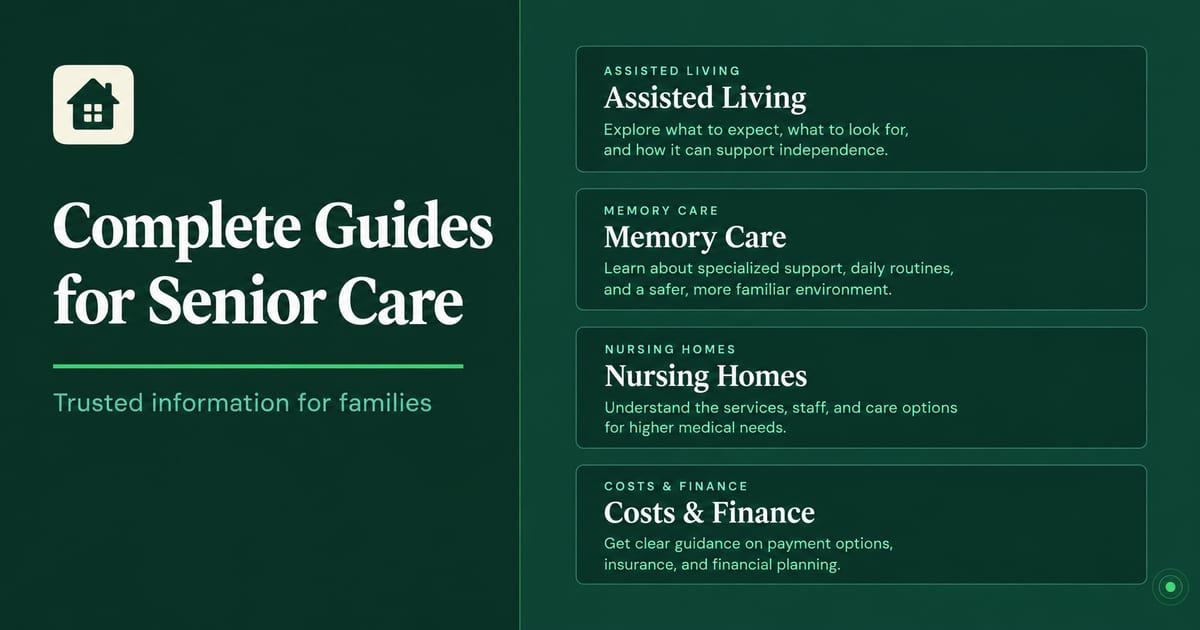
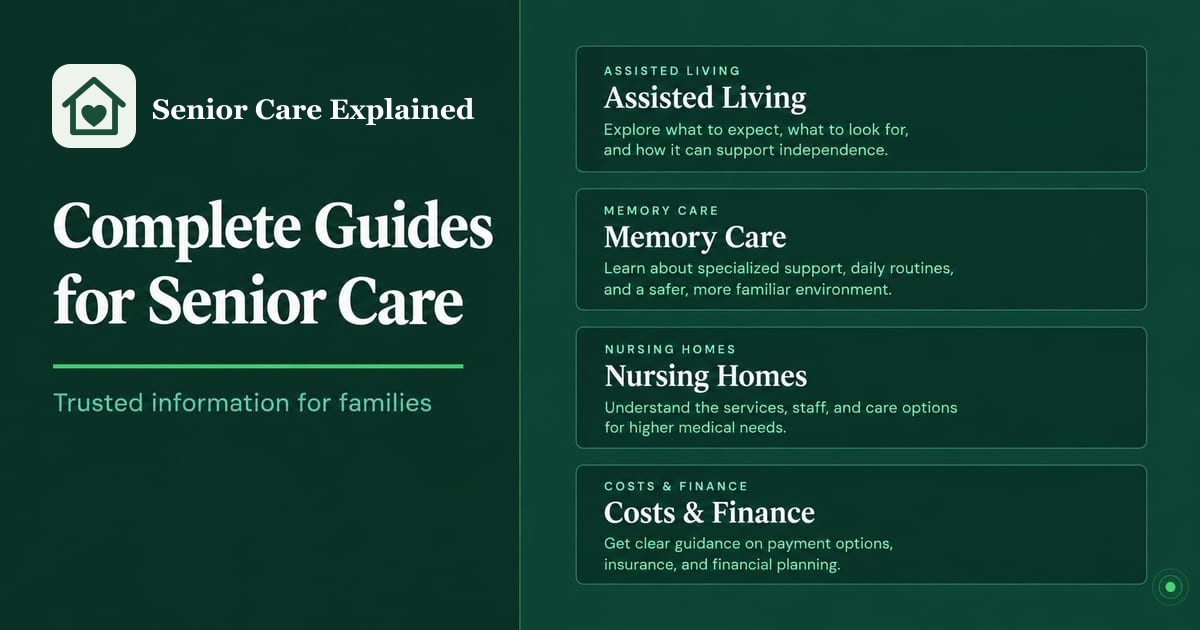
feat: rebrand to Senior Care Explained and move to seniorcareexplained.com
- Rename the site to "Senior Care Explained" across layouts, pages, SEO and docs
- New house-with-heart logo in header, favicons (svg/png/ico), logo.webp and og-default.jpg
- Point site URL, canonical, sitemap and robots.txt to https://seniorcareexplained.com
- Keep the "Senior Living Options" comparison article unchanged (topic, not brand)
- Header menu button now inherits the text color

Changed region(s): [[0.0308, 0.1206, 0.4008, 0.2413]]

diff --git a/src/utils/seo.ts b/src/utils/seo.ts
@@ -17,8 +17,8 @@ export interface SEOMeta {
   robots: string;
 }
 
-const SITE_URL = import.meta.env.PUBLIC_SITE_URL || 'https://senior-living-options.pages.dev';
-const SITE_NAME = import.meta.env.PUBLIC_SITE_NAME || 'Senior Living Options';
+const SITE_URL = import.meta.env.PUBLIC_SITE_URL || 'https://seniorcareexplained.com';
+const SITE_NAME = import.meta.env.PUBLIC_SITE_NAME || 'Senior Care Explained';
 const DEFAULT_OG_IMAGE = `${SITE_URL}/images/og-default.jpg`;
 
 export function generateArticleJsonLd(entry: CollectionEntry<'entries'>): Record<string, unknown> {

diff --git a/src/styles/components.css b/src/styles/components.css
@@ -744,6 +744,7 @@
     height: 44px;
     background: none;
     border: none;
+    color: var(--sl-color-text);
     cursor: pointer;
   }
 

diff --git a/docs/ARCHITECTURE.md b/docs/ARCHITECTURE.md
@@ -1,4 +1,4 @@
-# Senior Living Options - Architecture Decision Record
+# Senior Care Explained - Architecture Decision Record
 
 > Estado: actualizado en octubre de 2026 para reflejar el proyecto real. El sitio publicado y la web
 > están en inglés de EE. UU.; la documentación está en español.
@@ -154,8 +154,8 @@ herramientas de desarrollo (ESLint, Prettier, `tsx`, `terser`). No hay React, Vu
 
 | Variable           | Dónde configurar | Requerida | Valor por defecto                         |
 | ------------------ | ---------------- | --------- | ----------------------------------------- |
-| `PUBLIC_SITE_URL`  | Cloudflare Pages | Sí        | `https://senior-living-options.pages.dev` |
-| `PUBLIC_SITE_NAME` | Cloudflare Pages | Sí        | `Senior Living Options`                   |
+| `PUBLIC_SITE_URL`  | Cloudflare Pages | Sí        | `https://seniorcareexplained.com` |
+| `PUBLIC_SITE_NAME` | Cloudflare Pages | Sí        | `Senior Care Explained`                   |
 
 No hay variables de analítica: el sitio no usa analytics.
 
@@ -163,7 +163,7 @@ En `.env.local` para desarrollo:
 
 ```env
 PUBLIC_SITE_URL=http://localhost:4321
-PUBLIC_SITE_NAME=Senior Living Options (Dev)
+PUBLIC_SITE_NAME=Senior Care Explained (Dev)
 ```
 
 ## CI / Despliegue

diff --git a/docs/DEVELOPMENT.md b/docs/DEVELOPMENT.md
@@ -1,4 +1,4 @@
-# Guía de Desarrollo - Senior Living Options
+# Guía de Desarrollo - Senior Care Explained
 
 > Estado: actualizado en octubre de 2026. Contenido y web en inglés de EE. UU.; documentación en
 > español.
@@ -146,14 +146,14 @@ Dentro de un componente Astro, los estilos de elementos de otro componente hijo 
 
 | Variable           | Dónde configurar | Requerida | Valor por defecto                         |
 | ------------------ | ---------------- | --------- | ----------------------------------------- |
-| `PUBLIC_SITE_URL`  | Cloudflare Pages | Sí        | `https://senior-living-options.pages.dev` |
-| `PUBLIC_SITE_NAME` | Cloudflare Pages | Sí        | `Senior Living Options`                   |
+| `PUBLIC_SITE_URL`  | Cloudflare Pages | Sí        | `https://seniorcareexplained.com` |
+| `PUBLIC_SITE_NAME` | Cloudflare Pages | Sí        | `Senior Care Explained`                   |
 
 En `.env.local` para desarrollo:
 
 ```env
 PUBLIC_SITE_URL=http://localhost:4321
-PUBLIC_SITE_NAME=Senior Living Options (Dev)
+PUBLIC_SITE_NAME=Senior Care Explained (Dev)
 ```
 
 ## Checklist antes de publicar

diff --git a/docs/diseño-estructura.md b/docs/diseño-estructura.md
@@ -1,4 +1,4 @@
-# Guía de Diseño y Estructura — Senior Living Options
+# Guía de Diseño y Estructura — Senior Care Explained
 
 Documento de referencia del diseño visual, la estructura de páginas y los patrones de interfaz.
 Actualizado en octubre de 2026 para reflejar el sitio real.
@@ -270,7 +270,7 @@ Las fechas "Last updated" de estas páginas son fijas: se cambian a mano cuando 
 
 ## 11. Pendiente
 
-1. **Dominio propio** (ahora `senior-living-options.pages.dev`).
+1. **Dominio propio** (ahora `seniorcareexplained.com`).
 2. **Publicidad (AdSense):** consentimiento de cookies y ajuste de la CSP en `public/_headers`;
    revisar la política de privacidad y la política editorial en ese momento.
 3. **Ideas opcionales:** quiz de orientación (`/quiz/`), mapa del sitio en HTML, suscripción por

diff --git a/.claude/skills/new-article/prompt.md b/.claude/skills/new-article/prompt.md
@@ -5,7 +5,7 @@ schema and layouts. When the two disagree, this file wins.
 
 ## Role
 
-You are the lead writer of Senior Living Options, an independent editorial site about elder care in
+You are the lead writer of Senior Care Explained, an independent editorial site about elder care in
 the United States. You research and write accurate, empathetic, useful articles for families making
 hard decisions about the care of someone they love. The site is editorial, not commercial.
 

diff --git a/docs/CONTENT_MODEL.md b/docs/CONTENT_MODEL.md
@@ -1,4 +1,4 @@
-# Content Model - Senior Living Options
+# Content Model - Senior Care Explained
 
 > Estado: actualizado en octubre de 2026. El contenido del sitio está en inglés de EE. UU.; esta
 > documentación, en español. El esquema real vive en `src/utils/entry-schema.ts`.

diff --git a/README.md b/README.md
@@ -1,4 +1,4 @@
-# Senior Living Options
+# Senior Care Explained
 
 Guías completas para opciones de vivienda y cuidado de adultos mayores. El sitio está en inglés de
 EE. UU.; la documentación del repositorio, en español.
